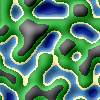
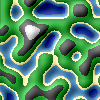
Add snow to the top of mountains

Changed region(s): [[0.24, 0.24, 0.42, 0.42]]

diff --git a/main.py b/main.py
@@ -61,6 +61,9 @@ def get_tile_type_for_map(value: float):
     elif value < 0.6:
         base = (50, 160, 60) # Grass
         t = (value - 0.4) / 0.2
+    elif value > 0.75:
+        base = (240, 240, 240)
+        t = (value - 0.6) / 0.4
     else:
         base = (120, 120, 120) # Mountain
         t = (value - 0.6) / 0.4
